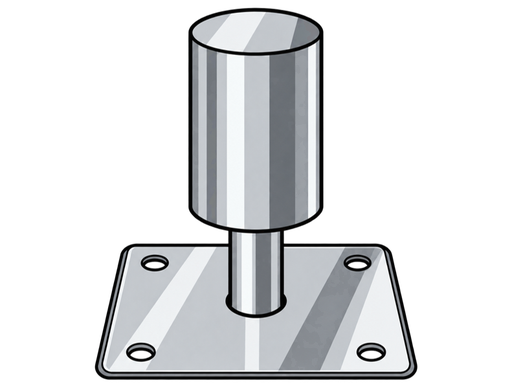
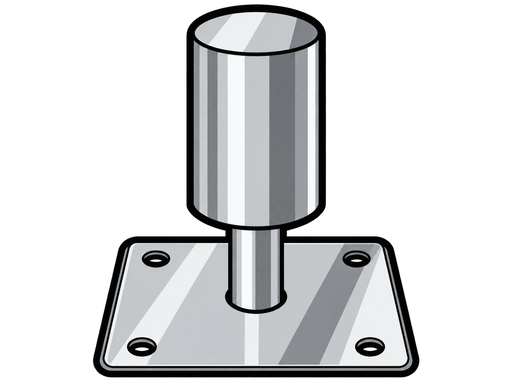
材料の絵を差し替え：脱気筒（ステンレスベーパス）・改修用ドレン（たて）
Claude-Session: https://claude.ai/code/session_01RqS8ryZ4NX9tKMiG8XzpXY

diff --git a/index.html b/index.html
@@ -395,7 +395,7 @@ nav, nav#nav{overflow:visible; padding-top:2px;}
 
 <!-- 版の表示：スマホに届いている中身がどれかを、お互いに確認するための小さな印。
      不要になったらこの1行と #nnver の指定を消してください。 -->
-<div id="nnver">v2026-10-03 q</div>
+<div id="nnver">v2026-10-03 r</div>
 <script>
 /* ============ 実機の計測結果を表示（原因調査用・2026-07-28） ============
    数字の意味（単位はミリ秒）
@@ -746,7 +746,7 @@ nav, nav#nav{justify-content:center !important; padding-left:6px !important; pad
    古いものが出続けることがある。そこで ver.txt（数バイト）だけを
    毎回見に行き、公開版と違っていたら保存分を捨てて1回だけ読み直す。
    ★公開のたびに ver.txt と、下の NN_VER を同じ文字に更新すること。 */
-const NN_VER='2026-10-03q';
+const NN_VER='2026-10-03r';
 /* ============ 表示にかかった時間の記録（原因調査用・2026-07-28） ============
    スマホの実機でどこに時間がかかっているかを数字で出す。
    ・net  ＝ページを要求してから最初の返事が来るまで（通信の待ち）
@@ -1963,7 +1963,7 @@ html:not([data-nnphone="1"]) nav#nav .ni.hasimg.on:hover{transform:scale(1.10) !
 <script src="./kou_hq.js?v=2026-09-26q"></script>
 <script src="./nn_select.js?v=2026-09-25n"></script>
 <script src="./nn_scrolllock.js?v=2026-09-25c"></script>
-<script src="./nn_matill.js?v=2026-10-03q"></script>
+<script src="./nn_matill.js?v=2026-10-03r"></script>
 <script src="./nn_master.js?v=2026-09-29i"></script>
 <script src="./nn_photos.js?v=2026-09-29h"></script>
 <script src="./nn_seikyu.js?v=2026-09-29g"></script>

diff --git a/kirokucho_demo.html b/kirokucho_demo.html
@@ -4842,7 +4842,7 @@ nav, nav#nav{justify-content:center !important; padding-left:6px !important; pad
    古いものが出続けることがある。そこで ver.txt（数バイト）だけを
    毎回見に行き、公開版と違っていたら保存分を捨てて1回だけ読み直す。
    ★公開のたびに ver.txt と、下の NN_VER を同じ文字に更新すること。 */
-const NN_VER='2026-10-03q';
+const NN_VER='2026-10-03r';
 /* ============ 表示にかかった時間の記録（原因調査用・2026-07-28） ============
    スマホの実機でどこに時間がかかっているかを数字で出す。
    ・net  ＝ページを要求してから最初の返事が来るまで（通信の待ち）
@@ -9645,7 +9645,7 @@ html body #dashboard .dash-settings-btn{display:inline-flex;align-items:center;g
 <script src="./kou_hq.js?v=2026-09-26q"></script>
 <script src="./nn_select.js?v=2026-09-25n"></script>
 <script src="./nn_scrolllock.js?v=2026-09-25c"></script>
-<script src="./nn_matill.js?v=2026-10-03q"></script>
+<script src="./nn_matill.js?v=2026-10-03r"></script>
 <script src="./nn_master.js?v=2026-09-29i"></script>
 <!-- ★2026-09-25a スマホ：新規物件登録を見直し（本人の指摘4点）
      ①日付欄（着工日など）が隣の列へはみ出して重なる → iPhoneの日付欄は固有の幅を持つので、見た目の既定をやめて幅100%に

diff --git a/zairyo_toroku.html b/zairyo_toroku.html
@@ -503,7 +503,7 @@ nav::-webkit-scrollbar{display:none;}
 }
 </style>
 <link rel="prefetch" href="./index.html"><link rel="prefetch" href="./kirokucho_demo.html"><link rel="prefetch" href="./genba_map_v36.html"><link rel="prefetch" href="./hacchu.html"><link rel="prefetch" href="./camera.html"><link rel="prefetch" href="./kokkosho.html">
-<script src="./nn_matill.js?v=2026-10-03q"></script>   <!-- ★§551 一覧の最初の描画より先に読む（あとだと一覧に絵が出ない） -->
+<script src="./nn_matill.js?v=2026-10-03r"></script>   <!-- ★§551 一覧の最初の描画より先に読む（あとだと一覧に絵が出ない） -->
 </head>
 <body>
 
@@ -1590,7 +1590,7 @@ nav, nav#nav{justify-content:center !important; padding-left:6px !important; pad
    古いものが出続けることがある。そこで ver.txt（数バイト）だけを
    毎回見に行き、公開版と違っていたら保存分を捨てて1回だけ読み直す。
    ★公開のたびに ver.txt と、下の NN_VER を同じ文字に更新すること。 */
-const NN_VER='2026-10-03q';
+const NN_VER='2026-10-03r';
 /* ============ 表示にかかった時間の記録（原因調査用・2026-07-28） ============
    スマホの実機でどこに時間がかかっているかを数字で出す。
    ・net  ＝ページを要求してから最初の返事が来るまで（通信の待ち）

diff --git a/camera.html b/camera.html
@@ -1271,7 +1271,7 @@ nav, nav#nav{justify-content:center !important; padding-left:6px !important; pad
    古いものが出続けることがある。そこで ver.txt（数バイト）だけを
    毎回見に行き、公開版と違っていたら保存分を捨てて1回だけ読み直す。
    ★公開のたびに ver.txt と、下の NN_VER を同じ文字に更新すること。 */
-const NN_VER='2026-10-03q';
+const NN_VER='2026-10-03r';
 /* ============ 表示にかかった時間の記録（原因調査用・2026-07-28） ============
    スマホの実機でどこに時間がかかっているかを数字で出す。
    ・net  ＝ページを要求してから最初の返事が来るまで（通信の待ち）

diff --git a/genba_map_v36.html b/genba_map_v36.html
@@ -5019,7 +5019,7 @@ nav, nav#nav{justify-content:center !important; padding-left:6px !important; pad
    古いものが出続けることがある。そこで ver.txt（数バイト）だけを
    毎回見に行き、公開版と違っていたら保存分を捨てて1回だけ読み直す。
    ★公開のたびに ver.txt と、下の NN_VER を同じ文字に更新すること。 */
-const NN_VER='2026-10-03q';
+const NN_VER='2026-10-03r';
 /* ============ 表示にかかった時間の記録（原因調査用・2026-07-28） ============
    スマホの実機でどこに時間がかかっているかを数字で出す。
    ・net  ＝ページを要求してから最初の返事が来るまで（通信の待ち）

diff --git a/hacchu.html b/hacchu.html
@@ -1103,7 +1103,7 @@ nav, nav#nav{justify-content:center !important; padding-left:6px !important; pad
    古いものが出続けることがある。そこで ver.txt（数バイト）だけを
    毎回見に行き、公開版と違っていたら保存分を捨てて1回だけ読み直す。
    ★公開のたびに ver.txt と、下の NN_VER を同じ文字に更新すること。 */
-const NN_VER='2026-10-03q';
+const NN_VER='2026-10-03r';
 /* ============ 表示にかかった時間の記録（原因調査用・2026-07-28） ============
    スマホの実機でどこに時間がかかっているかを数字で出す。
    ・net  ＝ページを要求してから最初の返事が来るまで（通信の待ち）

diff --git a/kokkosho.html b/kokkosho.html
@@ -2451,7 +2451,7 @@ nav, nav#nav{justify-content:center !important; padding-left:6px !important; pad
    古いものが出続けることがある。そこで ver.txt（数バイト）だけを
    毎回見に行き、公開版と違っていたら保存分を捨てて1回だけ読み直す。
    ★公開のたびに ver.txt と、下の NN_VER を同じ文字に更新すること。 */
-const NN_VER='2026-10-03q';
+const NN_VER='2026-10-03r';
 /* ============ 表示にかかった時間の記録（原因調査用・2026-07-28） ============
    スマホの実機でどこに時間がかかっているかを数字で出す。
    ・net  ＝ページを要求してから最初の返事が来るまで（通信の待ち）

diff --git a/library.html b/library.html
@@ -1170,7 +1170,7 @@ nav, nav#nav{justify-content:center !important; padding-left:6px !important; pad
    古いものが出続けることがある。そこで ver.txt（数バイト）だけを
    毎回見に行き、公開版と違っていたら保存分を捨てて1回だけ読み直す。
    ★公開のたびに ver.txt と、下の NN_VER を同じ文字に更新すること。 */
-const NN_VER='2026-10-03q';
+const NN_VER='2026-10-03r';
 /* ============ 表示にかかった時間の記録（原因調査用・2026-07-28） ============
    スマホの実機でどこに時間がかかっているかを数字で出す。
    ・net  ＝ページを要求してから最初の返事が来るまで（通信の待ち）

diff --git a/shiyo_toroku.html b/shiyo_toroku.html
@@ -1668,7 +1668,7 @@ nav, nav#nav{justify-content:center !important; padding-left:6px !important; pad
    古いものが出続けることがある。そこで ver.txt（数バイト）だけを
    毎回見に行き、公開版と違っていたら保存分を捨てて1回だけ読み直す。
    ★公開のたびに ver.txt と、下の NN_VER を同じ文字に更新すること。 */
-const NN_VER='2026-10-03q';
+const NN_VER='2026-10-03r';
 /* ============ 表示にかかった時間の記録（原因調査用・2026-07-28） ============
    スマホの実機でどこに時間がかかっているかを数字で出す。
    ・net  ＝ページを要求してから最初の返事が来るまで（通信の待ち）

diff --git a/yougo.html b/yougo.html
@@ -1406,7 +1406,7 @@ nav, nav#nav{justify-content:center !important; padding-left:6px !important; pad
    古いものが出続けることがある。そこで ver.txt（数バイト）だけを
    毎回見に行き、公開版と違っていたら保存分を捨てて1回だけ読み直す。
    ★公開のたびに ver.txt と、下の NN_VER を同じ文字に更新すること。 */
-const NN_VER='2026-10-03q';
+const NN_VER='2026-10-03r';
 /* ============ 表示にかかった時間の記録（原因調査用・2026-07-28） ============
    スマホの実機でどこに時間がかかっているかを数字で出す。
    ・net  ＝ページを要求してから最初の返事が来るまで（通信の待ち）

diff --git a/zumen_sekisan.html b/zumen_sekisan.html
@@ -6308,7 +6308,7 @@ nav, nav#nav{justify-content:center !important; padding-left:6px !important; pad
    古いものが出続けることがある。そこで ver.txt（数バイト）だけを
    毎回見に行き、公開版と違っていたら保存分を捨てて1回だけ読み直す。
    ★公開のたびに ver.txt と、下の NN_VER を同じ文字に更新すること。 */
-const NN_VER='2026-10-03q';
+const NN_VER='2026-10-03r';
 /* ============ 表示にかかった時間の記録（原因調査用・2026-07-28） ============
    スマホの実機でどこに時間がかかっているかを数字で出す。
    ・net  ＝ページを要求してから最初の返事が来るまで（通信の待ち）

diff --git a/nn_matill.js b/nn_matill.js
@@ -10,7 +10,7 @@
    ============================================================ */
 (function(){ 'use strict';
 if(window.nnMatIll) return;
-var ILL_VER='2026-10-03m';   /* ★絵を同じ名前で差し替えたら上げる（上げないと古い絵が出続ける） */
+var ILL_VER='2026-10-03r';   /* ★絵を同じ名前で差し替えたら上げる（上げないと古い絵が出続ける） */
 var KUBUN=[
  ['asphalt_compound','アスファルトコンパウンド','#6b4a2a'],
  ['primer','プライマー','#8a5a12'],
